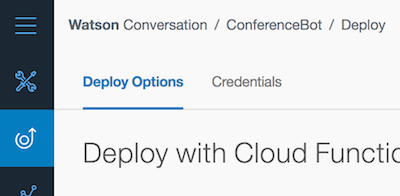
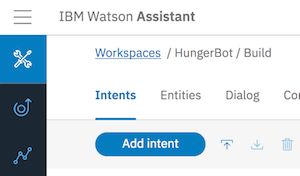
updated screenshots

diff --git a/README.md b/README.md
@@ -4,20 +4,52 @@ The following resources will help to train and deploy your chatbot to Slack.
 
 ## Train
 
-Please refer to [this lab](training.md) to train Watson Conversation.
+Please refer to [this lab](training.md) to train Watson Assistant.
 
 ## Deploy to Slack
 
-1. Click on the Deploy icon in the left sidebar menu of the Watson Conversation tooling.
+1. In the Watson Assistant tool, click on the **Deploy** icon in the left sidebar menu of the Watson Conversation tooling.
 
 	![Deploy Watson Conversation](assets/deploy.png)
 
-2. Click on Deploy under the tile labeled Slack.
+2. Click on **Deploy** under the tile labeled Slack.
 
 	![Deploy Watson Conversation](assets/deployslack.png)
 
-3. Follow the instructions to create a Slack application, 
+3. Follow the instructions to create a Slack application. 
 
 	![Deploy to Slack](assets/slack.png)
 
+## Deploy to Node.js Application
 
+A [sample Node.js application](https://github.com/watson-developer-cloud/assistant-simple) that uses a webbased chat interface is available in the Watson Developer Cloud on Github. 
+
+
+1. Clone the repo:
+
+    ```
+    git clone https://github.com/watson-developer-cloud/assistant-simple
+    ```
+    
+2. Follow the instructions to either run the application locally or in IBM Cloud. Add the Watson Assistant service credentials (username, password, and workspace ID) either in the .env file (locally), or bind the Watson Service to the IBM Cloud application.
+
+    ![Watson Assistant Credentials](assets/credentials.png)
+    
+    ```
+    # .env file
+    # Environment variables
+    WORKSPACE_ID=<workspace-id>
+    ASSISTANT_USERNAME=<conversation-username>
+    ASSISTANT_PASSWORD=<conversation-password>
+    ```
+
+3. Run the application:
+
+    ```
+    npm start
+    ```
+    
+4. Open a browser to the application and begin interacting with the chatbot.
+
+    ![Watson Assistant Sample Node.js application](assets/assistant-simple.png)
+    
